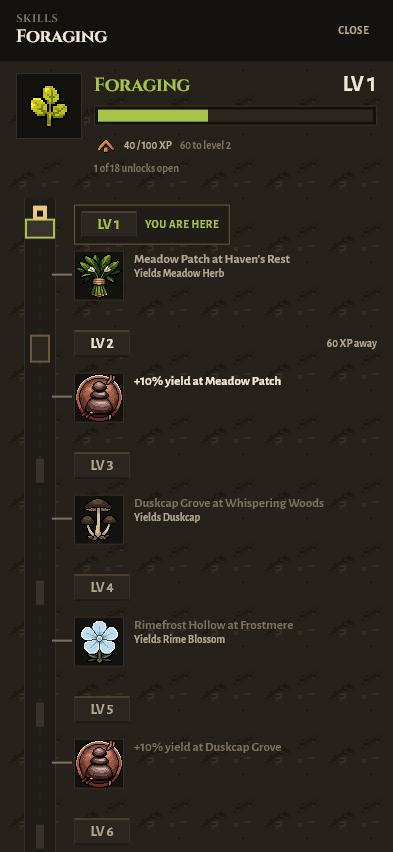
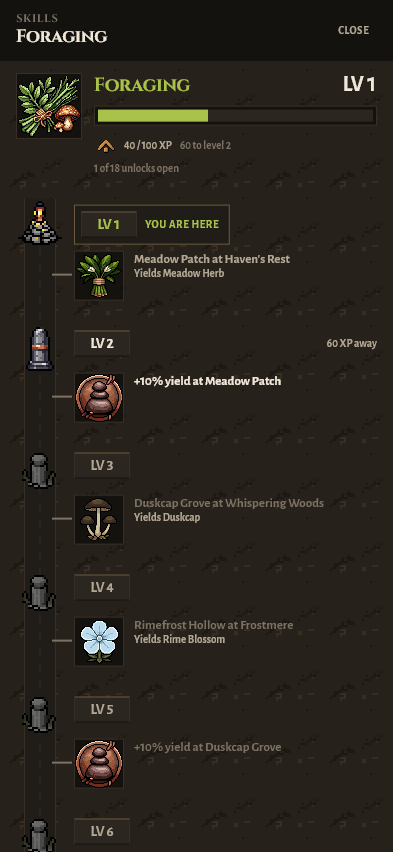
EPO03 skills: the mid-road render, the ledger's fourteen verdicts and the report

diff --git a/MILESTONES/evidence/EPO03/wave2/UI_SKILLS_report.md b/MILESTONES/evidence/EPO03/wave2/UI_SKILLS_report.md
@@ -1,0 +1,143 @@
+# EPO03 wave 2 — PROD-UI-SKILLS report
+
+**Brief:** `wave1/DIR-07_skills_progression.md`. **Cap:** 100 generations,
+**14 spent.** Branch `fable5-executive-production-overhaul-03`.
+
+The owner named this screen by hand — "the Skills detail screen still stacks
+rounded rectangles". It does not any more, and the overview it is reached from
+was not touched.
+
+## What shipped
+
+**Dart (the bigger half, 0 generations).**
+
+- `lib/ui/screens/skills/journey_model.dart` — **new.** `JourneyModel.from`
+  turns `SkillRoadmap` into a list of stops (milestone | fold | end) as a pure,
+  tested function: which levels stand, which sink into a fold, and where the
+  road ends. That grouping used to be three loops tangled through
+  `_Ladder.build`, untestable without pumping a screen. Nothing is derived —
+  every level, state, distance and horizon is the projection's own (E-2, F-07).
+- `lib/ui/screens/skills/track_art.dart` — **new.** The journey's own art
+  registry, in `assets/art/v1/track/`, because the journey family was struck
+  from the shared kit (`KIT_CONTRACT` §8). Kit doctrine exactly: a row that has
+  not landed is `null`, the widget paints its own fallback, and the layout
+  figure is spent either way. `_landed` is the on-switch.
+- `lib/ui/screens/skills/skill_detail_screen.dart` — **rebuilt.** Dead:
+  `_NextBlock`, `_Ladder`, `_LevelBand`, `_UnlockRow`, **both `SectionCard`s**,
+  `SkillHeaderRow` / `SkillProgressBar` on this route. New: `PageGround`
+  (`buckram`) full bleed, the trade band, `TradeGauge` — a 64² hero emblem in a
+  well, the name in the trade's ink, a gauge frame whose window the existing
+  `ProgressRule` fills, with the XP caption and the census line on the ground
+  beneath — and `JourneyTrack`: an inked road painted **behind** the column of
+  stops so it is continuous, with a Flutter-placed joint per level in a
+  reserved 48 dp rail. Four joints told apart by shape; unlocks hang off the
+  road on 16 dp spurs, unboxed, as a 48 dp well + name + the projection's first
+  detail line + a wax seal carrying `Also needs …`; empty runs and the road
+  already walked sink into painted folds; an end cap closes the road at
+  `contentHorizon` with the projection's own sentence.
+- **L-18:** a badge is a blank stone and `LV n` is set in `StrideType` over it;
+  state is redundant in shape, ink and Semantics. **No padlock, no coin, no
+  timer, no teal, nothing that counts up** (L-15/16/17/19).
+- **No new data and no new content.** The entry well shows the unlock's own
+  yielded item — art the projection already points at.
+
+**Art (10 marks, `assets/art/v1/track/`).** Four joints — `joint_reached`,
+`joint_here` (the lit lantern cairn), `joint_next` (a bronze-banded standing
+stone), `joint_far` (a bare post) — `gate_seal`, and five 64² hero emblems
+(`emblem_mining|foraging|smithing|woodcutting|cooking`). Packaged by this
+team's own block in `Scripts/art/package-art.js` (header `EPO03 UI-SKILLS`,
+run under the build lock), which enforces the declared canvas and refuses a
+mark whose top and bottom rows are fully opaque. `package-art.js --check`
+clean at 1,981 files; `check-art-palette.js` clean at 2,047 PNGs.
+
+## What was rejected, and why
+
+Four rolls, with sheets: the road tile twice (`review/skills/batch01.png`,
+`review/skills/road_tile_proof.png`) — `pixen` returned wood planks, then a
+two-colour checkerboard dither; the far stake once (a tree stump on its own
+soil plate, a baseline the other three joints do not have); the first smithing
+emblem once (a bronze roundel on the anvil that reads as a numeral — L-18).
+
+Two accepted marks were **tone-remapped rather than re-rolled** (A-2,
+precedent 49c91f9): the reached slab ×0.55 and the near-white far post ×0.18
+in linear light, by `EPO03/tools/dim.js`. A near-white *far* joint would have
+made the furthest thing on the road the brightest. Per-roll verdicts:
+`GAME_BIBLE/ART/exploration/EPO03/ledger/UI_SKILLS.md`.
+
+**The road strip, the folds, the caps and the two badge plates were not
+pursued past two rolls.** They are the flat-tileable-chrome boundary the kit
+owner measured across 31 rejected rolls; a third road roll would have spent the
+cap re-measuring a tool limit. All four are Flutter-painted at exactly the
+geometry `TrackArt` declares, so a strip authored later swaps in with no
+reflow.
+
+## Proof
+
+`GAME_BIBLE/ART/exploration/EPO03/review/device/skills/`, 393 × 852 @ DPR 1,
+read at phone scale:
+
+- `v3_skill_mining_detail.png`, `v3_skill_foraging_detail.png`,
+  `v3_skill_smithing_detail.png` — the three trades at level 1.
+- `epo_skill_foraging_midroad.png` — **the seeded mid-road state** (Foraging at
+  LV 3): two reached slabs behind the walker, the lit cairn and its backplate
+  at LV 3, the bronze stone at LV 4 carrying `70 XP away`, faded stakes above
+  it. No such state had a render in the repo before — every other run in the
+  harness starts every trade at level 1 — so one additive block was added at
+  the end of `test/screen_evidence_test.dart`, touching no other team's block.
+- `epo_skills_overview.png`, `v3_skills.png` — the overview, **untouched**.
+
+Judged: the roadmap now reads as position rather than as a list. The first
+screen answers *where am I* without scrolling (band, emblem, gauge, the lit
+joint, the next joint with its distance); there is not one rounded dark card on
+the route; the four joint states separate by silhouette alone.
+
+## Tests
+
+- `flutter test test/skill_detail_test.dart` — **3/3 pass**, rewritten for the
+  new grammar: the projection assertions kept verbatim, a new pure test of
+  `JourneyModel` (no level number invented or skipped, exactly one lit joint,
+  the distance on the next joint alone, the end cap), and a widget test that
+  now asserts `SectionCard` **findsNothing** on the route.
+- `flutter test test/ui_responsive_test.dart` — 64/64 pass (320 dp, ×1.4).
+- `flutter test test/screen_evidence_test.dart` — 7/7 pass.
+- `flutter analyze lib/ui/screens/skills/` — clean.
+
+**Stale goldens, not regenerated** (`--update-goldens` not run, per the rules):
+`test/phase1_golden_test.dart` fails three cases — the six tab roots at both
+sizes (`phase2_skills.png`, `phase2_skills_large.png` among them) and
+`craft_stage.png`. None of them is this route, which has no golden; they cover
+the Skills *overview*, which this team did not edit, and they are failing under
+the round's kit changes (square radii, the rebuilt tab bar, the new welt). The
+producer regenerates after inspection.
+
+## What did not close
+
+1. **The road is painted, not authored.** Two rolls, both refused. The screen
+   is finished without it and reserves its geometry, but the gutter is a
+   painted track and not material.
+2. **The badge plates, the fold, the end cap and the "here" backplate** are the
+   same story — painted, with their `TrackArt` rows declared and `null`.
+3. **The gauge frame** was never rolled: it is a nine-patch, the exact shape
+   the tool has failed on 33 times across two teams. The gauge is a painted
+   recess of the same band thickness.
+4. **The five region marks and the 96² expanded-site vignette** in `DIR-07` are
+   not built. Both need the `subject` / `wherePlace` passthroughs on
+   `SkillUnlock` in `lib/runtime/stride_session.dart` — a file no brief gave
+   this team, and a projection change another producer may be holding. The
+   entry well shows the yielded item instead. If the producer wants the region
+   marks, that passthrough is the prerequisite.
+5. **No device verdict.** Every judgement here is this team's, on the evidence
+   renders. The iPhone is the final authority and has not seen it.
+
+## Requests and questions
+
+None filed against `REQUESTS_NAV.md` — the journey family is this team's own
+and needed nothing from the kit owner. No `Q-` raised, and nothing in this work
+touches a save, a health call, an item, a recipe or a step cost.
+
+## Note for whoever runs next
+
+While this team was rendering, the shared tree did not compile for a stretch:
+`lib/ui/icons/traveler_art.dart` (PROD-EQUIPMENT) referenced `SpriteFootprints`
+members that no `package-art.js` block generates yet, which fails every widget
+test in the repo rather than only that team's. It cleared on its own.

diff --git a/GAME_BIBLE/ART/exploration/EPO03/ledger/UI_SKILLS.md b/GAME_BIBLE/ART/exploration/EPO03/ledger/UI_SKILLS.md
@@ -12,20 +12,53 @@ plates, the caps, the gate seal, the gauge frame and the five hero emblems
 
 The Dart half of `DIR-07` — `journey_model.dart`, `track_art.dart`, the rebuilt
 `skill_detail_screen.dart` — shipped at **0 generations**, on the accepted
-grains and painted fallbacks alone. Every row below is material laid into a
-screen that already lays out at its final geometry.
+grains and painted marks alone. Every row below is material laid into a screen
+that already lays out at its final geometry, and every row that never lands
+leaves that geometry untouched.
+
+## The rolls
 
 | # | Asked for | Tool | Job id | Cost line | Verdict | Reason |
 |---|---|---|---|---|---|---|
-| 1 | road tile, top-down dirt track, tiles vertically (32²) | pixen | `2c2607ad-c9bc-42fb-9f31-d64426d483db` | ~1 generation | | |
-| 2 | joint reached — squat notched waystone (24²) | pixen | `c17f290d-2222-45a4-b67c-617af2b4717a` | ~1 generation | | |
-| 3 | joint here — cairn with a lit lantern (24²) | pixen | `f2f44d6f-c02f-4f15-a6f1-08cb9ae68c04` | ~1 generation | | |
-| 4 | joint next — standing stone, bronze band (24²) | pixen | `443f0fe0-f5b7-49b8-9a51-30c598c2d3ab` | ~1 generation | | |
-| 5 | joint far — thin wooden stake (24²) | pixen | `81753292-4ad5-433a-af5a-857d65829505` | ~1 generation | | |
-| 6 | road tile re-roll — bare earth, no wood | pixen | `3c09d3dd-8da3-43e7-bdd9-44e4897166fc` | ~1 generation | | |
-| 7 | joint far re-roll — bare grey post, no ground | pixen | `671120bd-0108-422b-823d-e9c2bdf1c66c` | ~1 generation | | |
-| 8 | emblem mining — pickaxe over ore rock (64²) | pixen | `61a0f16a-6f45-4a5d-9297-679e72ba96ce` | ~1 generation | | |
-| 9 | emblem foraging — herb bundle and mushroom (64²) | pixen | `930bb12c-026a-4161-aecb-868a660547b9` | ~1 generation | | |
-| 10 | emblem smithing — hammer on anvil (64²) | pixen | `d5b4d333-e4b6-4734-9709-09ac812b57fc` | ~1 generation | | |
-| 11 | emblem woodcutting — axe and cut log (64²) | pixen | `50c0bb95-9572-475a-b6fd-bfeceaa932b2` | ~1 generation | | |
-| 12 | emblem cooking — iron pot and spoon (64²) | pixen | `a1c9634f-41f7-4daa-a2e8-dcf4de2f2336` | ~1 generation | | |
+| 1 | road tile, top-down dirt track, tiles vertically (32²) | pixen | `2c2607ad-c9bc-42fb-9f31-d64426d483db` | ~1 generation | REJECT | came back as **wood planks** — a vertical fence, not packed earth; bright mid-brown, and two hard border columns that would read as a ladder down the gutter |
+| 2 | joint reached — squat notched waystone (24²) | pixen | `c17f290d-2222-45a4-b67c-617af2b4717a` | ~1 generation | ACCEPT (remapped) | a low flat-topped slab on a rubble base; the squattest silhouette of the four. Tone-remapped ×0.55 in linear light so the stone behind the walker sits under the stone ahead of them |
+| 3 | joint here — cairn with a lit lantern (24²) | pixen | `f2f44d6f-c02f-4f15-a6f1-08cb9ae68c04` | ~1 generation | ACCEPT | the only lit shape and the only stacked one; reads as "here" in greyscale by height and by the lantern's mass alone |
+| 4 | joint next — standing stone, bronze band (24²) | pixen | `443f0fe0-f5b7-49b8-9a51-30c598c2d3ab` | ~1 generation | ACCEPT | upright, unlit, one bronze band; the tallest single stone. No lock, no coin (L-16/17) |
+| 5 | joint far — thin wooden stake (24²) | pixen | `81753292-4ad5-433a-af5a-857d65829505` | ~1 generation | REJECT | drew a twisted **tree stump on its own patch of soil** — a ground plate none of the other three have, so the four would not have shared a baseline |
+| 6 | road tile re-roll — bare earth, no wood | pixen | `3c09d3dd-8da3-43e7-bdd9-44e4897166fc` | ~1 generation | REJECT | a two-colour orange / blue-grey **checkerboard dither** at 1:1 — static, not a track. Tiles seamlessly and is still wrong: `road_tile_proof.png` shows what five repeats of it look like. Ceiling-clamped first (5 colours moved) to be sure brightness was not the complaint; it was not |
+| 7 | joint far re-roll — bare grey post, no ground | pixen | `671120bd-0108-422b-823d-e9c2bdf1c66c` | ~1 generation | ACCEPT (remapped) | a plain post, no soil plate. Came back near-white, which would have made the *furthest* joint the brightest thing on the road — remapped ×0.18 in linear light (A-2, precedent 49c91f9) so it recedes |
+| 8 | emblem mining — pickaxe over ore rock (64²) | pixen | `61a0f16a-6f45-4a5d-9297-679e72ba96ce` | ~1 generation | ACCEPT | first roll; reads at 64 dp in the gauge's well |
+| 9 | emblem foraging — herb bundle and mushroom (64²) | pixen | `930bb12c-026a-4161-aecb-868a660547b9` | ~1 generation | ACCEPT | first roll |
+| 10 | emblem smithing — hammer on anvil (64²) | pixen | `d5b4d333-e4b6-4734-9709-09ac812b57fc` | ~1 generation | REJECT | good drawing, but the anvil carries a **bronze roundel that reads as a numeral** — L-18 says the raster carries no number, and "probably not a 1" is not a standard |
+| 11 | emblem woodcutting — axe and cut log (64²) | pixen | `50c0bb95-9572-475a-b6fd-bfeceaa932b2` | ~1 generation | ACCEPT | first roll |
+| 12 | emblem cooking — iron pot and spoon (64²) | pixen | `a1c9634f-41f7-4daa-a2e8-dcf4de2f2336` | ~1 generation | ACCEPT | first roll |
+| 13 | emblem smithing re-roll — plain anvil, no marks | pixen | `649f348b-d808-4510-82fb-2e291660c1a5` | ~1 generation | ACCEPT | heavier anvil, hammer standing on it, no numeral anywhere |
+| 14 | gate seal — wax disc, a leaf pressed into it (24²) | pixen | `260a82bf-f44a-4580-8ce3-07c45beca4d4` | ~1 generation | ACCEPT | first roll; a seal, not a padlock (L-17) and not a coin (L-16) |
+
+**Total 14 generations** requested — 10 accepted (2 of them tone-remapped),
+4 rejected. Cap 100; **86 unspent.**
+
+## What was not asked for, and why
+
+The **road strip, the fold, the end cap and the two badge plates** were in
+`DIR-07`'s table and are not in this ledger past row 6. Two rolls established
+the same boundary the kit owner measured across 31 (`ledger/UI_KIT.md`,
+`KIT_CONTRACT` §8): `pixen` at 16–128 px does not draw flat tileable chrome —
+it draws objects in perspective, decorates them with studs, or dithers a flat
+texture into two-colour static. A third, fourth and fifth road roll would have
+spent the cap re-measuring a tool limit.
+
+Those four marks are **Flutter-painted instead**, at exactly the geometry
+`TrackArt` declares — a sunk track with a broken centre line, a pleated fold, a
+cap running out into two courses of loose stone, and a stone plate the level
+numeral is set on. `TrackArt._landed` is the on-switch: the day a strip is
+authored, its name goes in that set and the painter stops being used, with no
+reflow, because the road's width, the joint box, the fold height and the badge
+box were spent unconditionally from the first commit.
+
+The **five region marks** and the **96² expanded-site vignette** were also
+dropped, for a different reason: both needed `subject` / `wherePlace`
+passthroughs on `SkillUnlock` in `lib/runtime/stride_session.dart`, which no
+brief gave this team and which another producer may be holding. The entry well
+shows the unlock's own **yielded item** instead — art the projection already
+points at, and arguably the better answer to "what does this open".
